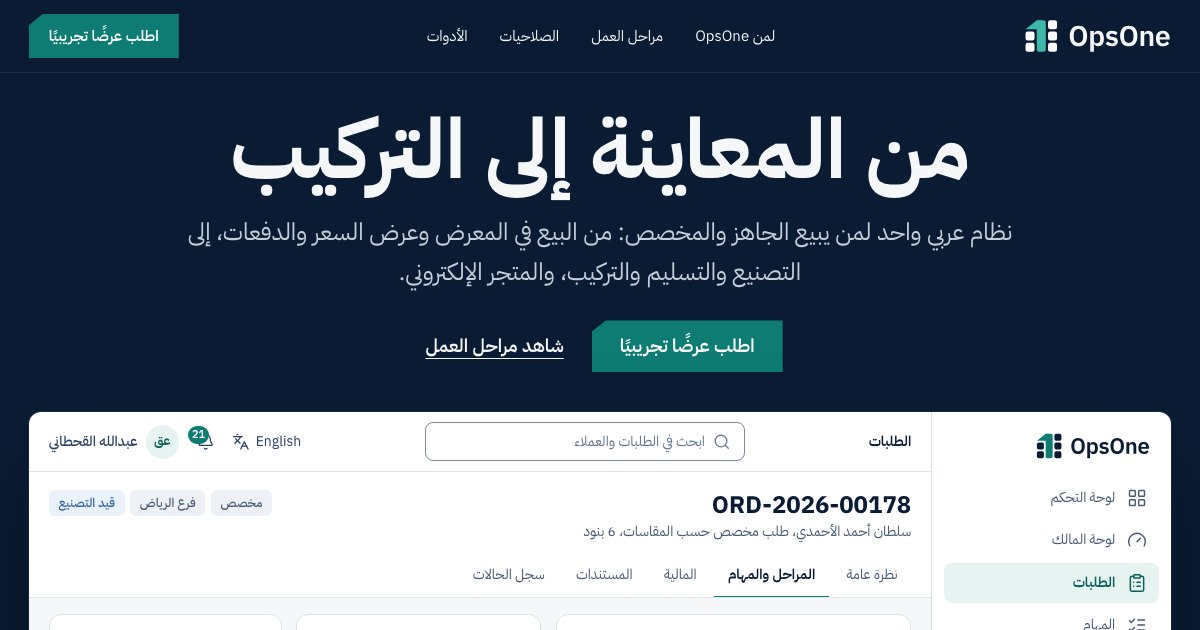
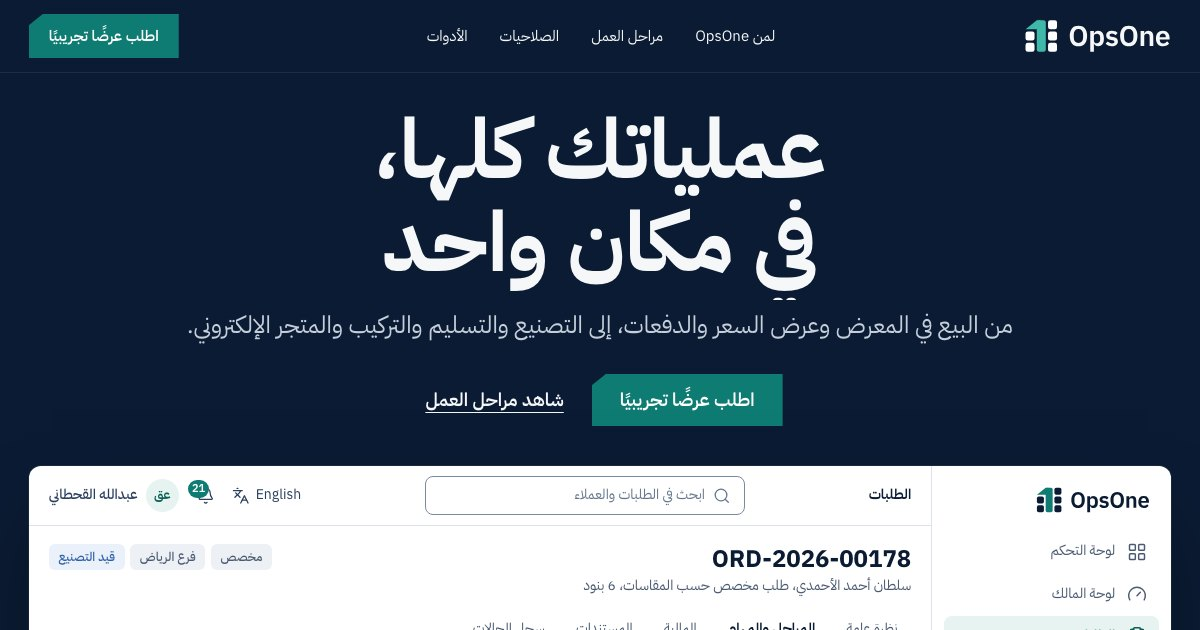
feat(marketing): new hero copy and the developer credit
- Headline «عملياتك كلها، في مكان واحد» on two lines at every width, with
  the approved supporting line; «عربي» no longer describes the system
- Title, description, Open Graph, Twitter and JSON-LD follow the headline
- Footer credit «تطوير Available Solutions»: plain text until
  config.js developerUrl is set, then a new-tab link with rel=noopener;
  Available Solutions as author/creator in the JSON-LD
- Share image re-captured

diff --git a/marketing/landing/index.html b/marketing/landing/index.html
@@ -3,8 +3,8 @@
 <head>
 <meta charset="utf-8">
 <meta name="viewport" content="width=device-width, initial-scale=1, viewport-fit=cover">
-<title>OpsOne | إدارة البيع من أول اتصال إلى آخر توقيع</title>
-<meta name="description" content="OpsOne نظام عربي يدير عملية البيع كاملة، من أول اتصال إلى آخر توقيع: فرص البيع والمواعيد، وعروض الأسعار والعقود الموقّعة إلكترونياً، والدفعات، والزيارات الميدانية، والمتجر الإلكتروني.">
+<title>OpsOne | عملياتك كلها، في مكان واحد</title>
+<meta name="description" content="OpsOne يجمع عملياتك كلها في مكان واحد، من أول اتصال إلى آخر توقيع: فرص البيع والمواعيد، وعروض الأسعار والعقود الموقّعة إلكترونياً، والدفعات، والزيارات الميدانية، والمتجر الإلكتروني.">
 <meta name="robots" content="index, follow, max-image-preview:large">
 <!-- SITE ORIGIN: every absolute URL below (and in robots.txt, sitemap.xml) uses the placeholder https://www.opsone.example; see README «Domain». -->
 <link rel="canonical" href="https://www.opsone.example/">
@@ -12,16 +12,16 @@
 <meta property="og:type" content="website">
 <meta property="og:site_name" content="OpsOne">
 <meta property="og:locale" content="ar_SA">
-<meta property="og:title" content="OpsOne | إدارة البيع من أول اتصال إلى آخر توقيع">
-<meta property="og:description" content="OpsOne نظام عربي يدير عملية البيع كاملة، من أول اتصال إلى آخر توقيع: فرص البيع والمواعيد، وعروض الأسعار والعقود الموقّعة إلكترونياً، والدفعات، والزيارات الميدانية، والمتجر الإلكتروني.">
+<meta property="og:title" content="OpsOne | عملياتك كلها، في مكان واحد">
+<meta property="og:description" content="OpsOne يجمع عملياتك كلها في مكان واحد، من أول اتصال إلى آخر توقيع: فرص البيع والمواعيد، وعروض الأسعار والعقود الموقّعة إلكترونياً، والدفعات، والزيارات الميدانية، والمتجر الإلكتروني.">
 <meta property="og:url" content="https://www.opsone.example/">
 <meta property="og:image" content="https://www.opsone.example/assets/og-image.jpg">
 <meta property="og:image:width" content="1200">
 <meta property="og:image:height" content="630">
-<meta property="og:image:alt" content="الصفحة الرئيسية لـ OpsOne: من المعاينة إلى التركيب، ونافذة طلب من النظام">
+<meta property="og:image:alt" content="الصفحة الرئيسية لـ OpsOne: عملياتك كلها، في مكان واحد، ونافذة طلب من النظام">
 <meta name="twitter:card" content="summary_large_image">
-<meta name="twitter:title" content="OpsOne | إدارة البيع من أول اتصال إلى آخر توقيع">
-<meta name="twitter:description" content="OpsOne نظام عربي يدير عملية البيع كاملة، من أول اتصال إلى آخر توقيع: فرص البيع والمواعيد، وعروض الأسعار والعقود الموقّعة إلكترونياً، والدفعات، والزيارات الميدانية، والمتجر الإلكتروني.">
+<meta name="twitter:title" content="OpsOne | عملياتك كلها، في مكان واحد">
+<meta name="twitter:description" content="OpsOne يجمع عملياتك كلها في مكان واحد، من أول اتصال إلى آخر توقيع: فرص البيع والمواعيد، وعروض الأسعار والعقود الموقّعة إلكترونياً، والدفعات، والزيارات الميدانية، والمتجر الإلكتروني.">
 <meta name="twitter:image" content="https://www.opsone.example/assets/og-image.jpg">
 <meta name="theme-color" content="#0B1B33">
 <link rel="icon" href="assets/brand/opsone-mark.svg" type="image/svg+xml">
@@ -32,7 +32,7 @@
 <link rel="preload" href="assets/fonts/IBMPlexSansArabic-Regular.woff2" as="font" type="font/woff2" crossorigin>
 <link rel="stylesheet" href="styles.css">
 <script>document.documentElement.classList.add('js')</script>
-<script type="application/ld+json">{"@context": "https://schema.org", "@graph": [{"@type": "Organization", "@id": "https://www.opsone.example/#organization", "name": "OpsOne", "url": "https://www.opsone.example/", "logo": "https://www.opsone.example/assets/brand/icon-512.png"}, {"@type": "WebSite", "@id": "https://www.opsone.example/#website", "name": "OpsOne", "url": "https://www.opsone.example/", "inLanguage": "ar", "publisher": {"@id": "https://www.opsone.example/#organization"}}, {"@type": "SoftwareApplication", "name": "OpsOne", "applicationCategory": "BusinessApplication", "operatingSystem": "Web", "inLanguage": ["ar", "en"], "description": "OpsOne نظام عربي يدير عملية البيع كاملة، من أول اتصال إلى آخر توقيع: فرص البيع والمواعيد، وعروض الأسعار والعقود الموقّعة إلكترونياً، والدفعات، والزيارات الميدانية، والمتجر الإلكتروني.", "url": "https://www.opsone.example/", "image": "https://www.opsone.example/assets/og-image.jpg", "publisher": {"@id": "https://www.opsone.example/#organization"}}]}</script>
+<script type="application/ld+json">{"@context": "https://schema.org", "@graph": [{"@type": "Organization", "@id": "https://www.opsone.example/#organization", "name": "OpsOne", "url": "https://www.opsone.example/", "logo": "https://www.opsone.example/assets/brand/icon-512.png"}, {"@type": "WebSite", "@id": "https://www.opsone.example/#website", "name": "OpsOne", "url": "https://www.opsone.example/", "inLanguage": "ar", "publisher": {"@id": "https://www.opsone.example/#organization"}}, {"@type": "SoftwareApplication", "name": "OpsOne", "applicationCategory": "BusinessApplication", "operatingSystem": "Web", "inLanguage": ["ar", "en"], "description": "OpsOne يجمع عملياتك كلها في مكان واحد، من أول اتصال إلى آخر توقيع: فرص البيع والمواعيد، وعروض الأسعار والعقود الموقّعة إلكترونياً، والدفعات، والزيارات الميدانية، والمتجر الإلكتروني.", "url": "https://www.opsone.example/", "image": "https://www.opsone.example/assets/og-image.jpg", "publisher": {"@id": "https://www.opsone.example/#organization"}, "author": {"@type": "Organization", "name": "Available Solutions"}, "creator": {"@type": "Organization", "name": "Available Solutions"}}]}</script>
 </head>
 <body>
 <!-- Icons: Lucide 0.475 (ISC licence, assets/vendor/LUCIDE-LICENSE.txt). -->
@@ -55,10 +55,10 @@
 <div class="hero">
   <div class="hero__copy">
     <h1 class="display lines">
-      <span class="line"><span data-line style="--i:0">من المعاينة</span></span>
-      <span class="line"><span data-line style="--i:1">إلى التركيب</span></span>
+      <span class="line"><span data-line style="--i:0">عملياتك كلها،</span></span>
+      <span class="line"><span data-line style="--i:1">في مكان واحد</span></span>
     </h1>
-    <p class="lead" data-load style="--d:380ms">نظام عربي واحد لمن يبيع الجاهز والمخصص: من البيع في المعرض وعرض السعر والدفعات، إلى التصنيع والتسليم والتركيب، والمتجر الإلكتروني.</p>
+    <p class="lead" data-load style="--d:380ms">من البيع في المعرض وعرض السعر والدفعات، إلى التصنيع والتسليم والتركيب والمتجر الإلكتروني.</p>
     <div class="hero__actions" data-load style="--d:460ms">
       <a class="btn btn--solid" href="#demo">اطلب عرضًا تجريبيًا</a>
       <a class="link hero__second" href="#sales">شاهد مراحل العمل</a>
@@ -653,6 +653,7 @@
   <a class="foot__sign" href="#top" aria-label="OpsOne، أعلى الصفحة"><img src="assets/brand/opsone-logo-reversed.svg" width="262" height="64" loading="lazy" alt="OpsOne"></a>
   <div class="foot__base">
     <p>© 2026 OpsOne</p>
+    <p class="dev">تطوير <span data-developer>Available Solutions</span></p>
     <p class="credits">لقطات المنتج من OpsOne ببيانات تجريبية.</p>
   </div>
 </footer>

diff --git a/marketing/landing/styles.css b/marketing/landing/styles.css
@@ -118,7 +118,7 @@ p { text-wrap: pretty; }
 .hero { background: var(--ink); color: var(--on-dark); overflow: clip; }
 .hero__copy { padding: clamp(2rem, 5vh, 3.5rem) var(--margin) 0; text-align: center; }
 .hero h1 { font-size: clamp(3.25rem, 1rem + 5.6vw, 6.25rem); }
-.hero h1 .line { display: inline-block; vertical-align: top; }
+.hero h1 .line { display: block; }
 .hero .lead { max-width: 58ch; margin: 1rem auto 0; color: var(--on-dark-muted); }
 .hero__actions { display: flex; align-items: center; justify-content: center; gap: 1.25rem; margin-top: 1.75rem; }
 .hero__second { display: inline-flex; align-items: center; min-height: 2.75rem; padding: 0 0.5rem; font-weight: 600; text-decoration-color: currentColor; }
@@ -521,6 +521,8 @@ p { text-wrap: pretty; }
 @media (max-width: 767px) { .foot__sign img { height: 32px; } }
 .foot__base { display: flex; flex-wrap: wrap; justify-content: space-between; gap: 1rem 2rem; max-width: 78rem; margin: 2rem auto 0; padding-top: 1.5rem; border-top: 1px solid rgba(255, 255, 255, 0.12); color: var(--on-dark-muted); font-size: var(--step-small); }
 .foot__base .credits { max-width: 80ch; line-height: 1.7; }
+.foot__base .dev { margin-inline-end: auto; }
+.foot__base .dev a { text-decoration-color: currentColor; }
 
 /* ---------- consent banner (fixed, it floats over the page) ---------- */
 .consent { position: fixed; inset-inline: var(--margin); bottom: calc(1rem + env(safe-area-inset-bottom, 0px)); z-index: 20; display: flex; flex-wrap: wrap; align-items: center; justify-content: space-between; gap: 1rem 1.5rem; max-width: 46rem; margin-inline: auto; padding: 1rem 1.25rem; border-radius: 12px; background: var(--ink-800); color: var(--on-dark); box-shadow: 0 18px 40px -12px rgba(0, 0, 0, 0.5); }
@@ -564,7 +566,6 @@ p { text-wrap: pretty; }
   .bar .btn--small { padding: 0 1rem; }
   .bar__logo img { width: 123px; height: 30px; }
   .hero__copy { padding-top: 1.75rem; }
-  .hero h1 .line { display: block; }
   .hero .lead { margin-top: 1rem; font-size: var(--step-body); line-height: 1.65; }
   .hero__actions { flex-direction: column; gap: 0.5rem; margin-top: 1.5rem; }
   .hero__actions .btn { width: 100%; }

diff --git a/marketing/landing/main.js b/marketing/landing/main.js
@@ -49,6 +49,19 @@
     }
   });
 
+  /* ---------- footer credit: the developer's name links out only once its URL is set in config.js ---------- */
+  const devUrl = ((window.OPSONE_LANDING || {}).developerUrl || '').trim();
+  const dev = document.querySelector('[data-developer]');
+  if (dev && /^https:\/\//.test(devUrl)) {
+    const link = document.createElement('a');
+    link.className = 'link';
+    link.href = devUrl;
+    link.target = '_blank';
+    link.rel = 'noopener';
+    link.textContent = dev.textContent;
+    dev.replaceWith(link);
+  }
+
   /* ---------- the eight steps: the step at the middle of the screen owns the stage ---------- */
   const steps = [...document.querySelectorAll('.step')];
   if (steps.length && 'IntersectionObserver' in window) {

diff --git a/marketing/landing/config.js b/marketing/landing/config.js
@@ -21,10 +21,16 @@
  *     snapPixel    Snap Pixel ID
  *     linkedin     LinkedIn Insight partner ID, digits
  *     linkedinLeadConversion  LinkedIn conversion ID for the demo request, digits
+ *
+ * DEVELOPER CREDIT
+ *   developerUrl  Available Solutions' site (https://…). While empty, the footer credit «تطوير Available Solutions»
+ *                 is plain text; once set, the name links to it in a new tab. Add the same URL as "url" on the
+ *                 author/creator Organization in index.html's JSON-LD.
  */
 window.OPSONE_LANDING = {
   demoEndpoint: '',
   demoEmail: '',
+  developerUrl: '',
   tags: {
     ga4: '',
     gtm: '',

diff --git a/marketing/landing/README.md b/marketing/landing/README.md
@@ -46,6 +46,7 @@ then visit `http://localhost:8080`.
 | Domain | `index.html` (head), `robots.txt`, `sitemap.xml` | Every absolute URL uses the placeholder `https://www.opsone.example`. Replace it in those three files, e.g. `grep -rl "https://www.opsone.example" marketing/landing \| xargs sed -i.bak "s#https://www.opsone.example#https://YOUR-DOMAIN#g"` then delete the `.bak` files. |
 | Demo form endpoint | `config.js` → `demoEndpoint` (or `demoEmail`) | See below. |
 | Marketing tag IDs | `config.js` → `tags` | See «Marketing tags». |
+| Developer link | `config.js` → `developerUrl`, and `"url"` on the author/creator Organization in the JSON-LD | Footer credit «تطوير Available Solutions» is plain text until an `https://` URL is set; then it opens in a new tab (`rel="noopener"`). |
 | Contact details | footer «تواصل» column in `index.html` | Email, phone, WhatsApp, address are not on the page yet. |
 | Hosting headers | the host | `HOSTING.md`. |
 
@@ -275,6 +276,16 @@ where noted.
   on the sticky bar and the consent banner (`viewport-fit=cover`).
 - **break-ui:** no overflow at 320, 375, 768 or 1440, nor at 200% text (the settings window lost its side menu below 1024 px to
   make that hold); a long name, a long company and Arabic-digit phone input in the form; a long email in the status line wraps.
+
+## Hero copy and developer credit (2026-11-04, approved by the user)
+
+- Headline «عملياتك كلها، في مكان واحد», always on two lines (checked at 320, 375, 768 and 1440); supporting line «من البيع في
+  المعرض وعرض السعر والدفعات، إلى التصنيع والتسليم والتركيب والمتجر الإلكتروني.»
+- «عربي» no longer describes the system anywhere: title «OpsOne | عملياتك كلها، في مكان واحد»; description, Open Graph,
+  Twitter and JSON-LD start «OpsOne يجمع عملياتك كلها في مكان واحد، من أول اتصال إلى آخر توقيع». The benefit «عربي وإنجليزي» stays:
+  it names the interface languages, not the system.
+- Footer credit «تطوير Available Solutions»; the SoftwareApplication in the JSON-LD names Available Solutions as `author` and
+  `creator` (name only until the URL is confirmed). Share image re-captured.
 
 ## Critique (round before the redesign)
 
